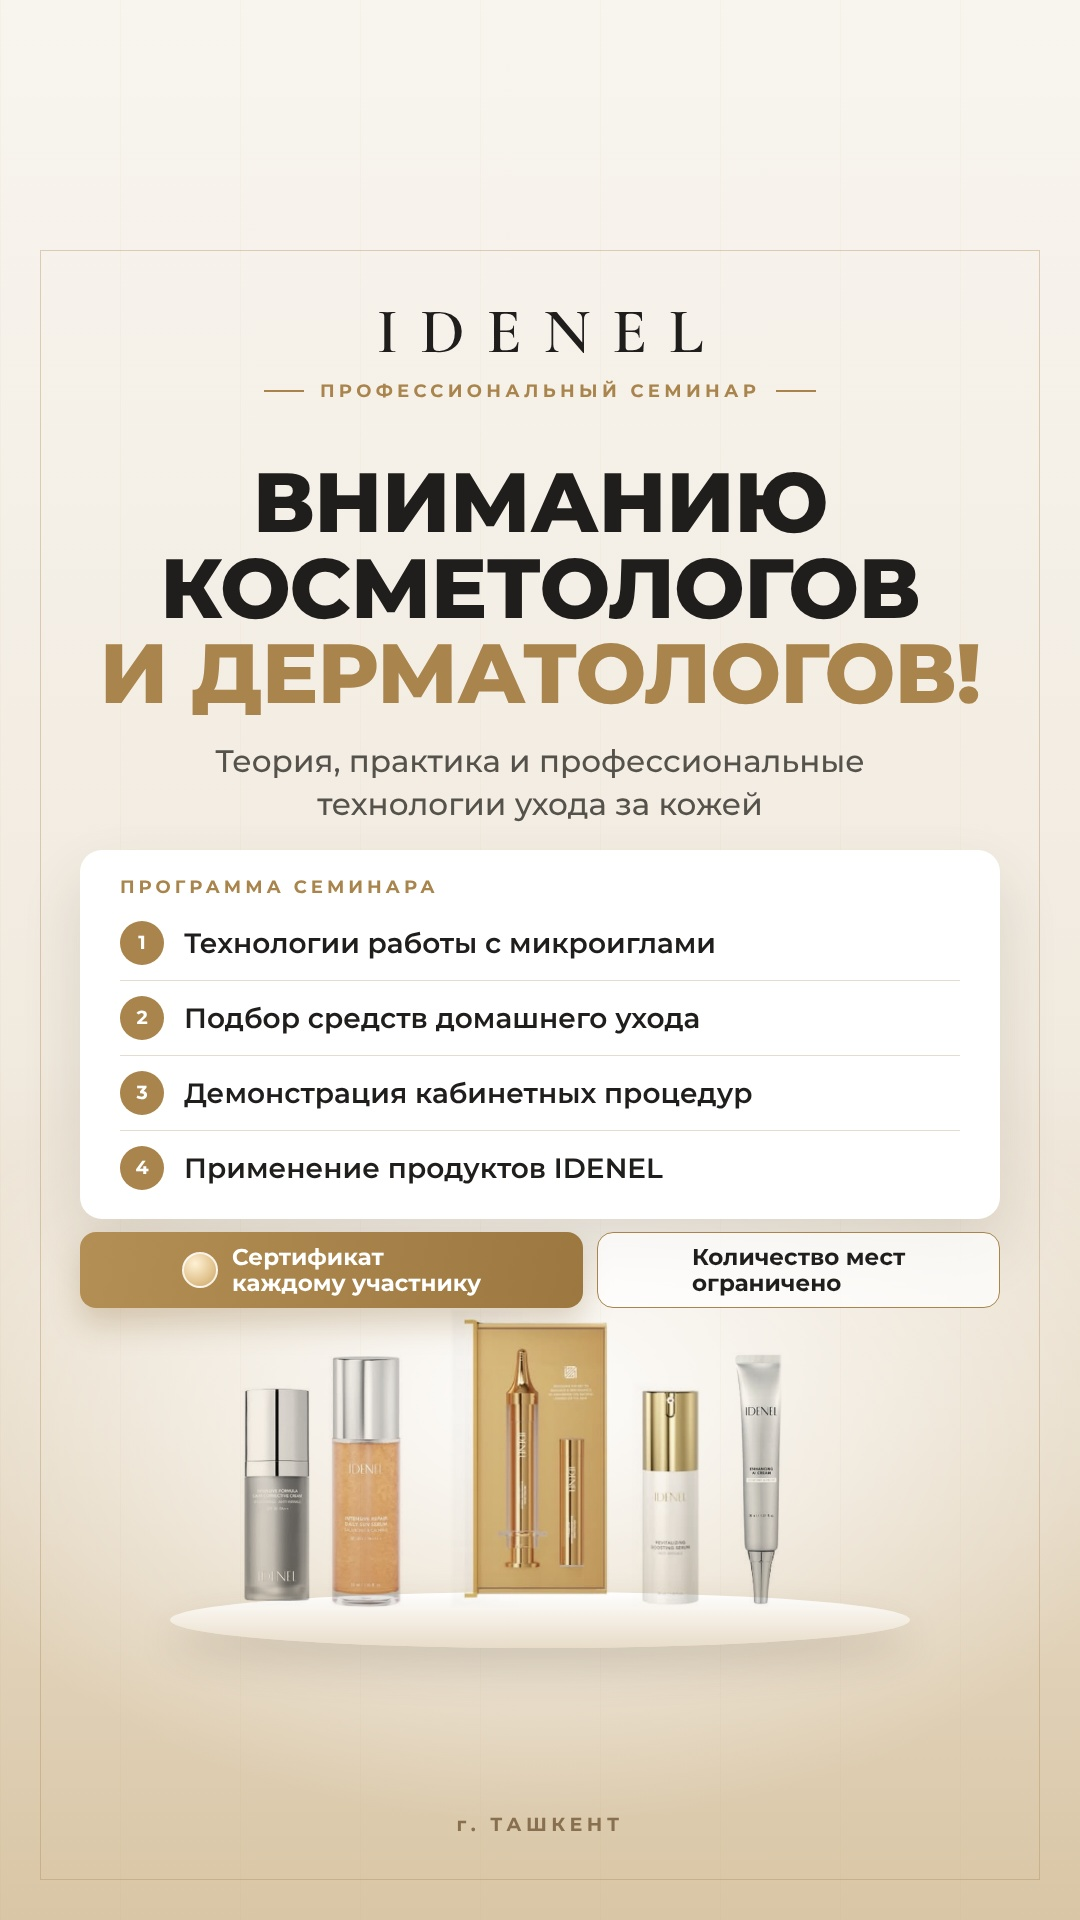
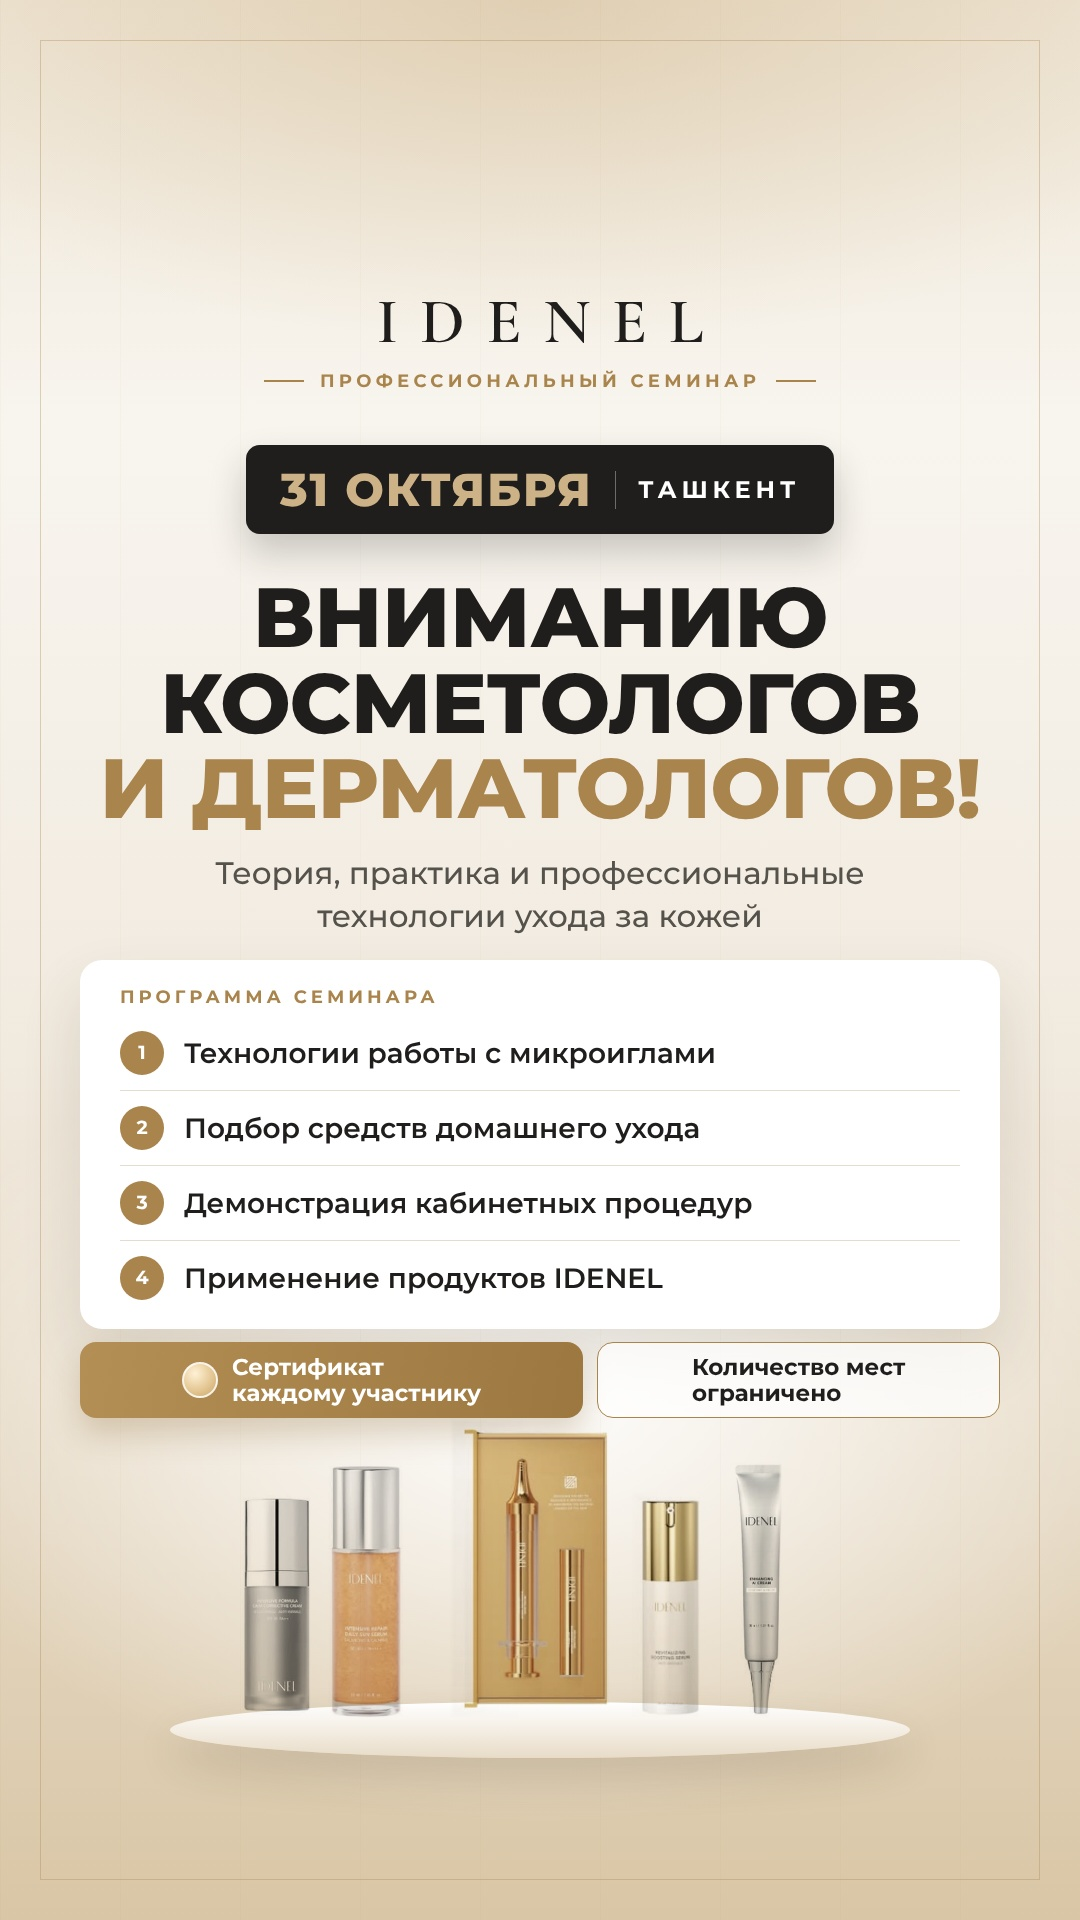
Story ad: add 31 October date badge, full-bleed background
Claude-Session: https://claude.ai/code/session_019zeLhuZrvyu55ev7DFEb9D

diff --git a/idenel-carousel/story-ru.html b/idenel-carousel/story-ru.html
@@ -13,21 +13,27 @@ body{background:#DCD7CF;font-family:var(--sans);color:var(--ink)}
 .story{position:relative;width:1080px;height:1920px;overflow:hidden;
   background:
     radial-gradient(60% 22% at 50% 73%, rgba(255,255,255,.95) 0%, rgba(255,255,255,0) 100%),
-    linear-gradient(180deg,#F8F5EF 0%,#F1EADF 55%,#D9C6A6 100%)}
+    radial-gradient(70% 18% at 50% 0%, rgba(205,178,135,.45) 0%, rgba(205,178,135,0) 100%),
+    linear-gradient(180deg,#EFE6D6 0%,#F8F5EF 22%,#F1EADF 55%,#D9C6A6 100%)}
 .story::before{content:"";position:absolute;inset:0;
   background:repeating-linear-gradient(90deg,rgba(169,132,76,.035) 0 1px,transparent 1px 120px)}
-.frame{position:absolute;left:40px;right:40px;top:250px;bottom:40px;border:1px solid rgba(169,132,76,.35)}
+.frame{position:absolute;inset:40px;border:1px solid rgba(169,132,76,.35)}
 
-.brand{position:absolute;left:0;right:0;top:300px;text-align:center}
+.brand{position:absolute;left:0;right:0;top:290px;text-align:center}
 .brand .m{font-family:var(--serif);font-weight:600;font-size:64px;letter-spacing:.34em;padding-left:.34em;line-height:1}
 .brand .s{margin-top:16px;display:inline-flex;align-items:center;gap:16px;font-size:18px;font-weight:700;letter-spacing:.24em;color:var(--gold)}
 .brand .s::before,.brand .s::after{content:"";width:40px;height:1.5px;background:var(--gold)}
 
-h1{position:absolute;left:60px;right:60px;top:460px;text-align:center;font-size:84px;line-height:1.02;font-weight:800;letter-spacing:-.01em}
+.date{position:absolute;left:0;right:0;top:445px;display:flex;justify-content:center}
+.date div{display:flex;align-items:center;gap:22px;background:var(--ink);color:#fff;border-radius:14px;padding:16px 34px;box-shadow:0 18px 36px rgba(31,30,28,.22)}
+.date b{font-size:46px;font-weight:800;letter-spacing:.04em;color:var(--gold-2)}
+.date i{width:1.5px;height:38px;background:rgba(255,255,255,.35)}
+.date span{font-size:24px;font-weight:700;letter-spacing:.2em}
+h1{position:absolute;left:60px;right:60px;top:575px;text-align:center;font-size:84px;line-height:1.02;font-weight:800;letter-spacing:-.01em}
 h1 .gold{color:var(--gold)}
-.lead{position:absolute;left:120px;right:120px;top:740px;text-align:center;font-size:31px;line-height:1.38;font-weight:500;color:var(--ink-2)}
+.lead{position:absolute;left:120px;right:120px;top:852px;text-align:center;font-size:31px;line-height:1.38;font-weight:500;color:var(--ink-2)}
 
-.card{position:absolute;left:80px;right:80px;top:850px;background:#fff;border-radius:22px;padding:26px 40px 14px;
+.card{position:absolute;left:80px;right:80px;top:960px;background:#fff;border-radius:22px;padding:26px 40px 14px;
   box-shadow:0 30px 60px rgba(80,62,35,.14)}
 .card h3{font-size:18px;font-weight:700;letter-spacing:.22em;color:var(--gold);margin-bottom:8px}
 .card li{list-style:none;display:flex;align-items:center;gap:20px;padding:15px 0;border-top:1px solid var(--line);
@@ -36,13 +42,13 @@ h1 .gold{color:var(--gold)}
 .card em{flex:none;width:44px;height:44px;border-radius:50%;background:var(--gold);color:#fff;font-style:normal;
   display:flex;align-items:center;justify-content:center;font-size:19px;font-weight:700}
 
-.chips{position:absolute;left:80px;right:80px;top:1232px;display:grid;grid-template-columns:1.25fr 1fr;gap:14px}
+.chips{position:absolute;left:80px;right:80px;top:1342px;display:grid;grid-template-columns:1.25fr 1fr;gap:14px}
 .chip{height:76px;border-radius:16px;display:flex;align-items:center;justify-content:center;gap:14px;font-size:23px;font-weight:700;text-align:left;line-height:1.15}
 .chip.g{background:linear-gradient(100deg,#B38E55,#9C773F);color:#fff;box-shadow:0 16px 30px rgba(130,95,40,.25)}
 .chip.o{background:rgba(255,255,255,.75);border:1.5px solid var(--gold);color:var(--ink)}
 .seal{flex:none;width:36px;height:36px;border-radius:50%;background:radial-gradient(circle at 35% 30%,#FFF1D6,#E2C48F 60%,#C9A46A);border:2px solid rgba(255,255,255,.8)}
 
-.stage{position:absolute;left:0;right:0;top:1330px;height:300px}
+.stage{position:absolute;left:0;right:0;top:1440px;height:300px}
 .plinth{position:absolute;left:170px;right:170px;top:262px;height:56px;border-radius:50%;
   background:linear-gradient(180deg,#FFFFFF,#E8DCC8);box-shadow:0 20px 40px rgba(80,62,35,.18)}
 .prod{position:absolute;mix-blend-mode:multiply;bottom:22px}
@@ -54,6 +60,8 @@ h1 .gold{color:var(--gold)}
   <div class="frame"></div>
 
   <div class="brand"><div class="m">IDENEL</div><div class="s">ПРОФЕССИОНАЛЬНЫЙ СЕМИНАР</div></div>
+
+  <div class="date"><div><b>31 ОКТЯБРЯ</b><i></i><span>ТАШКЕНТ</span></div></div>
 
   <h1>ВНИМАНИЮ<br>КОСМЕТОЛОГОВ<br><span class="gold">И ДЕРМАТОЛОГОВ!</span></h1>
   <p class="lead">Теория, практика и профессиональные технологии ухода за кожей</p>
@@ -82,7 +90,6 @@ h1 .gold{color:var(--gold)}
     <img class="prod" src="assets/tube.png"      style="left:724px;height:256px">
   </div>
 
-  <div class="city">г. ТАШКЕНТ</div>
 </section>
 </body>
 </html>
